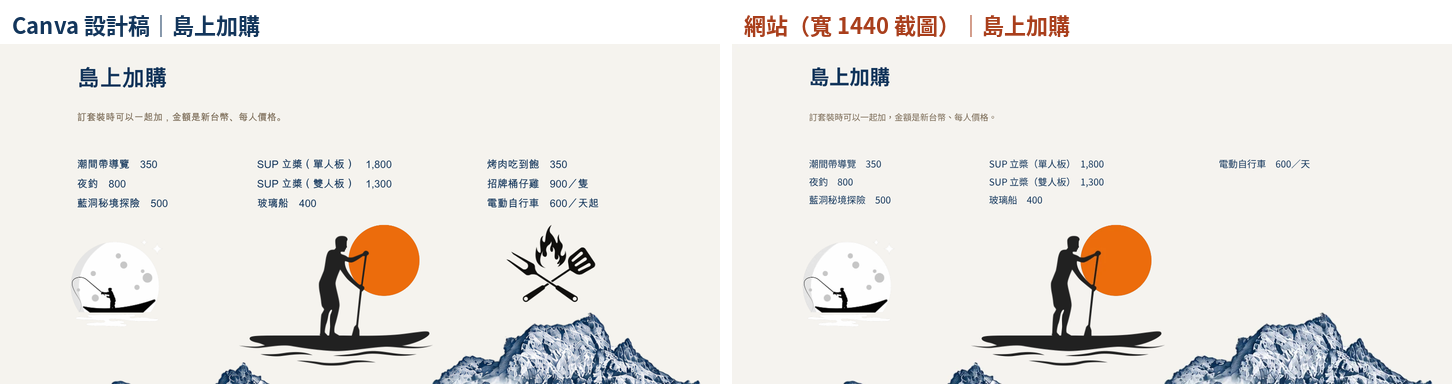
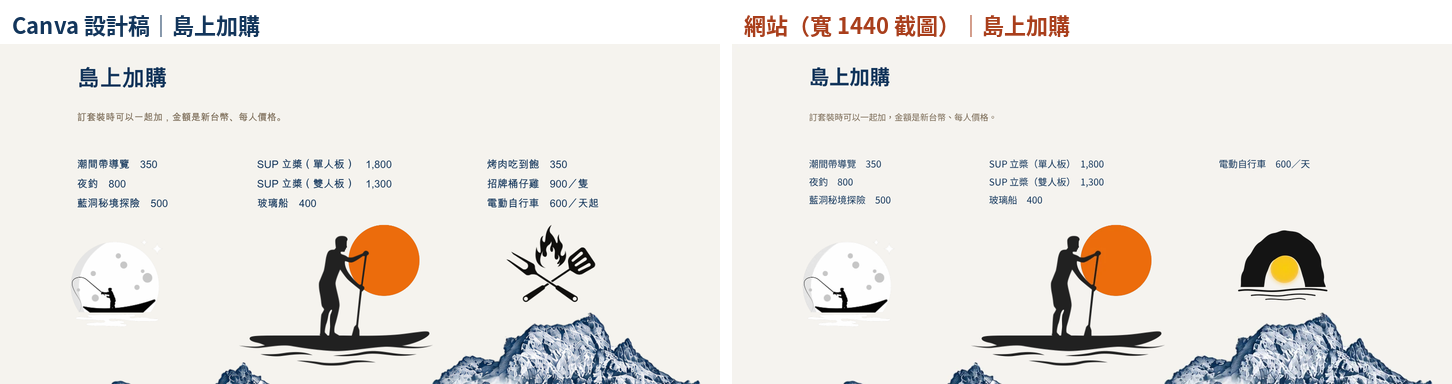
行程頁：原本烤肉的位置換成藍洞探險插圖，一起慢慢浮現（Ambre 11/18）
Claude-Session: https://claude.ai/code/session_01CnUJQd6g4KuqDDoCxycPDg

Changed region(s): [[0.8368, 0.5938, 0.9298, 0.7812]]

diff --git a/scripts/canvas_pages.py b/scripts/canvas_pages.py
@@ -147,10 +147,13 @@ PAGES = {
             "LB6ZkxmTckCCLlBy": ("dsd", None),
             "LBZ9wlyDbmv99gFr": ("fun", None),
         },
-        # 插圖：月亮夜釣、SUP（連同後面的太陽）滑到時慢慢浮現（11/18 Ambre）；烤肉插圖拿掉（11/18 Ambre）
+        # 插圖：月亮夜釣、SUP（連同後面的太陽）、藍洞探險（取代烤肉）滑到時慢慢浮現（11/18 Ambre）
         "illustrations": {
             "LBZQVMYsBZZF9mqP": {"code": "T1", "file": "trips_moon_fishing", "name": "月亮夜釣", "anim": {"dx": 0, "dy": 12, "dur": 1.8, "delay": 0, "float": 0}},
             "LB8f2js7y9qclGlr": {"code": "T2", "file": "trips_sup_sun", "name": "SUP 立槳與太陽", "with": ["LBT3trKSS4gn3Z1n"], "anim": {"dx": 0, "dy": 12, "dur": 1.8, "delay": 0, "float": 0}},
+            # 原本烤肉的位置換成藍洞探險（11/18 Ambre）：不是 Canva 的圖，是照同風格畫的 docs/trips-bluecave.svg，
+            #   匯出插圖 PNG 後貼在烤肉的範圍（x1012.4 y3381.7 w178.6 h155.4）再跑產生器；太陽跟頁首選單的太陽同色
+            "LBQszyFHm6Q0GkDP": {"code": "T3", "file": "trips_bluecave", "name": "藍洞探險", "anim": {"dx": 0, "dy": 12, "dur": 1.8, "delay": 0, "float": 0}},
         },
         "sections": [
             ("open", "開場", 0, 1330),

diff --git a/docs/行程頁進度.md b/docs/行程頁進度.md
@@ -8,7 +8,7 @@
 - 元素座標存在 `docs/trips-canva-elements.json`（只讀一次整頁；頁面備註沒有動畫規格，只有待確認事項）
 - 去字底圖：工作檔刪掉文字、按鈕後匯出；原頁另外匯出當比對圖（`docs/compare/trips/_canva原頁_全頁.webp`）
 - 網頁：底圖分段切 WebP（`src/assets/img/trips/`），文字按鈕用網頁文字照 Canva 座標放回
-- 插圖：月亮夜釣、SUP（連同後面的太陽）滑到時慢慢浮現（11/18 Ambre；往上 12px、1.8 秒淡入，同住宿頁房子）；烤肉插圖拿掉（11/18 Ambre）。另一份工作檔只留插圖、透明背景匯出 → 切成 `trips_moon_fishing`、`trips_sup_sun`
+- 插圖：月亮夜釣、SUP（連同後面的太陽）、藍洞探險滑到時慢慢浮現（11/18 Ambre；往上 12px、1.8 秒淡入，同住宿頁房子）；烤肉插圖拿掉，原位置換成藍洞探險（11/18 Ambre）。藍洞探險不是 Canva 的圖：照同風格畫的 `docs/trips-bluecave.svg`（黑色岩洞剪影＋洞口太陽〔跟頁首選單的太陽同色〕＋水面線；Ambre 要求不要尖尖的東西、不要有人），匯出 PNG 貼在插圖透明圖的烤肉範圍（x1012.4 y3381.7 w178.6 h155.4）後再跑產生器，切成 `trips_bluecave`。另一份工作檔只留插圖、透明背景匯出 → 切成 `trips_moon_fishing`、`trips_sup_sun`
 - 頁首、頁尾：用首頁（home.json）那一份（canvas_pages.py 的 shared）；選單「行程」顯示為目前頁；頁尾公司資訊讀 site.json；選單沒有「聯絡」
 - 價格一律從 `prices.json` 讀：套裝 pkg-snorkel／pkg-dsd／pkg-fun（雙人每人價）、升等 up-*、單人報名加價＝single − price（新增 `{extra:代號}`）、活動 tidal、fishing、bluecave、sup1、sup2、glassboat、電動自行車 ebike；預訂按鈕連 `/booking/?item=pkg-*`
 - 全站規則：字級 ×0.9、段落左右對齊、預訂按鈕右緣對齊同一張卡片說明文字的實際最右邊
@@ -27,14 +27,13 @@
 | 每個套裝皆含 | 完成 | 02_每個套裝皆含.png | 4 欄文字照 Canva |
 | 三張套裝卡 | 完成 | 03_三張套裝卡.png | 價格 pkg-*；升等 up-*；單人報名加價＝單人價 − 雙人每人價；預訂 → ?item=pkg-*，按鈕右緣對齊說明文字最右邊（比 Canva 往右約 144px） |
 | 3 天怎麼過 | 完成 | 04_3天怎麼過.png | 照 Canva（行程範例） |
-| 島上加購 | 完成 | 05_島上加購.png | 價格從 prices.json 讀；烤肉、桶仔雞不放、烤肉插圖拿掉；電動自行車寫「600／天」 |
-| 插圖動畫 | 完成 | 07_插圖_慢慢浮現.png | 月亮夜釣、SUP 捲到後 0.1／0.4／0.8／1.6／3 秒；靜態位置跟 Canva 相同（像素差平均 1 左右） |
+| 島上加購 | 完成 | 05_島上加購.png | 價格從 prices.json 讀；烤肉、桶仔雞不放；烤肉插圖換成藍洞探險；電動自行車寫「600／天」 |
+| 插圖動畫 | 完成 | 07_插圖_慢慢浮現.png | 月亮夜釣、SUP、藍洞探險 捲到後 0.1／0.4／0.8／1.6／3 秒；靜態位置跟 Canva 相同（像素差平均 1 左右） |
 | 頁尾 | 完成 | 06_頁尾.png | 共用首頁頁尾（Canva 行程頁頁尾＝首頁往上 3500px，x 相同）；頁尾按鈕是 11/18 全站新版（較小、橘色） |
 
 像素量測（Canva 原頁 vs 網站截圖，每個文字和按鈕對去字底圖的差異範圍）：左、上位置差 0–2 px；文字寬度因字級 ×0.9 變窄（規則如此）；Fun Dive 卡升等那段 Canva 3 行、網站 2 行。預訂按鈕照規則往右移。首頁、課程頁、住宿頁重建後截圖跟改之前逐像素相同。npm test 32 題一致。Sheet 01_價目表 41 項逐項核對 prices.json 全部一致（不用改）。
 
 ## 待 Ambre 決定
-- 套裝是不是只有夏季賣（標題寫「夏日」）→ 照 Canva 放，Ambre 11/18 還沒回答。
 - 電動自行車雙人 800：Sheet 只有 ebike 600（單人），網站寫「600／天」。11/18 已向 Ambre 說明，要放雙人價要先在 Sheet 加一列。
 - 頁尾信箱、LINE、Instagram（待填）→ 11/17 Ambre：等所有頁面好了一起補。
 
@@ -47,9 +46,12 @@
 - 月亮夜釣、SUP 滑到時慢慢浮現。
 - 玻璃船英文 Submarine 只是 Canva 頁面備註（原始資料的英文版），網頁上沒有英文；英文版之後才做，現在不處理。
 - 住宿頁「入住前請先看」加底線動畫：不用改，跳過。
+- 套裝不是只有夏天賣，但綠島通常只有夏天有遊客 → 標題維持「夏日」。
+- 原本烤肉的位置放一張風格一樣的「藍洞探險」插圖，跟月亮夜釣、SUP 一起慢慢浮現；Canva AI 生成的兩張是黑底不採用，用照同風格畫的版本，改成不要尖尖的東西、不要有人、太陽跟頁首選單的太陽同色。
 
 ## 紀錄
 - 11/18（排程接力 1）：從 main 開 trips-redo。Sheet 01_價目表 41 項逐項核對 prices.json，全部一致。建立工作檔 DAHbMg2hxSY，讀一次座標存 docs/trips-canva-elements.json，匯出原頁與去字底圖。canvas_pages.py 加 trips、版型 cvMap 加 trips、trips.njk 改用 canvas-page 版型；fillPrices 加 {extra:代號}（單人報名加價，其他頁輸出不變）。首頁、課程、住宿頁重建後截圖逐像素相同。
 - 11/18（排程接力 1）：開場、每個套裝皆含、三張套裝卡、3 天怎麼過、島上加購、頁尾 六段完成（比對圖 docs/compare/trips/01–06），npm test 32 題一致。錯字：「Fun Dive都可以」→「Fun Dive 都可以」。沒有黃色設計標籤。
 - 11/18（排程接力 1）：已傳比對圖給 Ambre（6 張，SendUserFile＋推播）；Project 狀態檔第 5 節 W03、第 8 節已更新。等她逐段回覆，說 OK 才合併 main。接著觸發接力 2（關於與聯絡頁）。
 - 11/18 Ambre 回饋（見上「Ambre 已決定」）。處理：底圖工作檔 DAHbMg2hxSY 再刪月亮夜釣、太陽、SUP、烤肉插圖重新匯出；新工作檔 DAHbMvhf8rg 只留月亮夜釣、太陽、SUP 透明匯出；build-canvas-data.py 插圖設定加 with（疊在一起的元素合成一張一起動，其他頁輸出不變）。比對圖 05 更新、新增 07（插圖動畫）。首頁、課程、住宿頁截圖逐像素相同；npm test 32 題一致。
+- 11/18 Ambre：原本烤肉的位置放藍洞探險插圖一起浮現。Canva AI 生成 2 張（MAHbQT23BD8、MAHbQYyGiZE，都是黑底，沒用）；照同風格畫 docs/trips-bluecave.svg，依 Ambre 回饋拿掉鐘乳石尖角、潛水員，太陽改頁首太陽的黃色。比對圖 05、07 更新。首頁、課程、住宿頁截圖逐像素相同；npm test 32 題一致。
